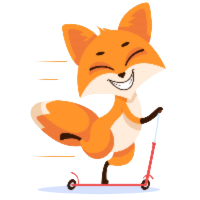
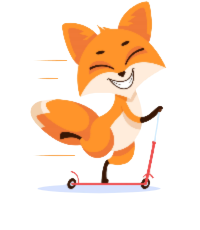
resized mascot + better demo entry

diff --git a/Code/PaperFriend/Frontend/mainwindow.cpp b/Code/PaperFriend/Frontend/mainwindow.cpp
@@ -110,7 +110,7 @@ MainWindow::MainWindow(QWidget *parent)
   {
       EntryPerso* demo_entry = new EntryPerso();
       demo_entry->set_title("Welcome in Paper Friend!");
-      demo_entry->set_text("<html><head><meta name=\"qrichtext\" content=\"1\" /><meta charset=\"utf-8\" /><style type=\"text/css\">\np, li { white-space: pre-wrap; }\n</style></head><body style=\" font-family:'Segoe UI'; font-size:9pt; font-weight:400; font-style:normal;\">\n<p style=\" margin-top:0px; margin-bottom:0px; margin-left:0px; margin-right:0px; -qt-block-indent:0; text-indent:0px;\">Click the <span style=\" font-style:italic;\">Modify Entry</span> button just below to start writing your first entry!</p>\n<p style=\" margin-top:0px; margin-bottom:0px; margin-left:0px; margin-right:0px; -qt-block-indent:0; text-indent:0px;\">You can write about:</p>\n<p style=\"-qt-paragraph-type:empty; margin-top:0px; margin-bottom:0px; margin-left:0px; margin-right:0px; -qt-block-indent:0; text-indent:0px;\"><br /></p>\n<ul type=\"circle\" style=\"margin-top: 0px; margin-bottom: 0px; margin-left: 0px; margin-right: 0px; -qt-list-indent: 1;\"><li style=\" margin-top:0px; margin-bottom:0px; margin-left:0px; margin-right:0px; -qt-block-indent:0; text-indent:0px;\">How you <span style=\" font-weight:700;\">feel</span></li>\n<li style=\" margin-top:0px; margin-bottom:0px; margin-left:0px; margin-right:0px; -qt-block-indent:0; text-indent:0px;\">What you <span style=\" font-weight:700;\">did</span> today</li>\n<li style=\" margin-top:0px; margin-bottom:0px; margin-left:0px; margin-right:0px; -qt-block-indent:0; text-indent:0px;\">What could be <span style=\" font-weight:700;\">improved</span> in your day...</li></ul>\n<p style=\"-qt-paragraph-type:empty; margin-top:0px; margin-bottom:0px; margin-left:0px; margin-right:0px; -qt-block-indent:0; text-indent:0px;\"><br /></p>\n<p style=\" margin-top:0px; margin-bottom:0px; margin-left:0px; margin-right:0px; -qt-block-indent:0; text-indent:0px;\">The possibilities are endless! </p>\n<p style=\"-qt-paragraph-type:empty; margin-top:0px; margin-bottom:0px; margin-left:0px; margin-right:0px; -qt-block-indent:0; text-indent:0px;\"><br /></p></body></html>");
+      demo_entry->set_text("<html><head><meta name=\"qrichtext\" content=\"1\" /><meta charset=\"utf-8\" /><style type=\"text/css\">\np, li { white-space: pre-wrap; }\n</style></head><body style=\" font-family:'Segoe UI'; font-size:9pt; font-weight:400; font-style:normal;\">\n<p style=\" margin-top:0px; margin-bottom:0px; margin-left:0px; margin-right:0px; -qt-block-indent:0; text-indent:0px;\"><span style=\" font-size:11pt;\">Click the Modify Entry button just below to start writing your first entry!</span></p>\n<p style=\"-qt-paragraph-type:empty; margin-top:0px; margin-bottom:0px; margin-left:0px; margin-right:0px; -qt-block-indent:0; text-indent:0px; font-size:11pt;\"><br /></p>\n<p style=\" margin-top:0px; margin-bottom:0px; margin-left:0px; margin-right:0px; -qt-block-indent:0; text-indent:0px;\">You can write about:</p>\n<p style=\"-qt-paragraph-type:empty; margin-top:0px; margin-bottom:0px; margin-left:0px; margin-right:0px; -qt-block-indent:0; text-indent:0px;\"><br /></p>\n<ul type=\"circle\" style=\"margin-top: 0px; margin-bottom: 0px; margin-left: 0px; margin-right: 0px; -qt-list-indent: 1;\"><li style=\" margin-top:0px; margin-bottom:0px; margin-left:0px; margin-right:0px; -qt-block-indent:0; text-indent:0px;\">How you <span style=\" font-weight:700;\">feel</span></li>\n<li style=\" margin-top:0px; margin-bottom:0px; margin-left:0px; margin-right:0px; -qt-block-indent:0; text-indent:0px;\">What you <span style=\" font-weight:700;\">did</span> today</li>\n<li style=\" margin-top:0px; margin-bottom:0px; margin-left:0px; margin-right:0px; -qt-block-indent:0; text-indent:0px;\">What could be <span style=\" font-weight:700;\">improved</span> in your day...</li></ul>\n<p style=\"-qt-paragraph-type:empty; margin-top:0px; margin-bottom:0px; margin-left:0px; margin-right:0px; -qt-block-indent:0; text-indent:0px;\"><br /></p>\n<p style=\" margin-top:0px; margin-bottom:0px; margin-left:0px; margin-right:0px; -qt-block-indent:0; text-indent:0px;\"><span style=\" font-family:'Script MT Bold'; font-size:10pt; font-weight:700;\">The possibilities are endless! </span></p>\n<p style=\"-qt-paragraph-type:empty; margin-top:0px; margin-bottom:0px; margin-left:0px; margin-right:0px; -qt-block-indent:0; text-indent:0px; font-family:'Script MT Bold'; font-size:10pt; font-weight:700;\"><br /></p></body></html>");
       vector_entries.push_back(demo_entry);
   }
 
@@ -527,6 +527,8 @@ void MainWindow::on_suggestions_button_clicked() {
   DataAnalysis data_analysis = DataAnalysis(vector_entries);
   std::string suggestion = data_analysis.suggestion();
   chat << suggestion;
+  chat.add_mascot(60);
+
 }
 void MainWindow::generate_recap() {
   // first check if we need to generate a weekly/monthly/yearly recap
@@ -649,10 +651,12 @@ void MainWindow::react_to_last_entry() {
 }
 
 void MainWindow::welcome() {
+  //now the following if is superfluous since we add a demo entry if it's empty
+  //but ut's still better to keep the if for robustness if we decide to remove that demo entry in the future.
   if (!vector_entries.empty()) {
     EntryPerso *last_entry = vector_entries[vector_entries.size() - 1];
     int daysago = (last_entry->get_qdate()).daysTo(QDate::currentDate());
-    if (daysago == 0) {
+    if (daysago == 0 and last_entry->get_title()!="Welcome in Paper Friend!") {
       chat << QString("Hello again!");
       chat.add_mascot(-1);
       chat << QString("I hope you enjoyed yourself today!!");
@@ -682,17 +686,16 @@ void MainWindow::welcome() {
       chat.add_mascot(-1);
       chat << QString("How did it go since last time?");
       chat.add_mascot(60);
+    } else{//first time you use the app
+      chat << QString("Hello, it seems like it's your first time here! I'm "
+                      "Rooxie, your well-being assistant!");
+      chat.add_mascot(-1);
+      chat << QString("You can put on paper your feelings using entries like the one on the right");
+      chat.add_mascot(60);
+      chat << QString(
+          "Go on and modify the example entry! I can't wait to hear about your day!");
+      chat.add_mascot(90);
     }
-  } else {
-    chat << QString("Hello, it seems like it's your first time here! I'm "
-                    "Rooxie, your well-being assistant!");
-    chat.add_mascot(-1);
-    chat << QString("You can create an entry in you diary by clicking the New "
-                    "entry button on the top of the screen.");
-    chat.add_mascot(60);
-    chat << QString(
-        "Go on and add an entry! I can't wait to hear about your day!");
-    chat.add_mascot(90);
   }
 }
 
